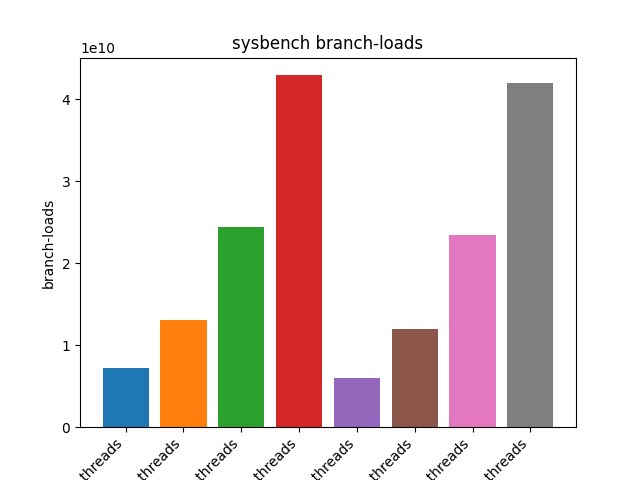
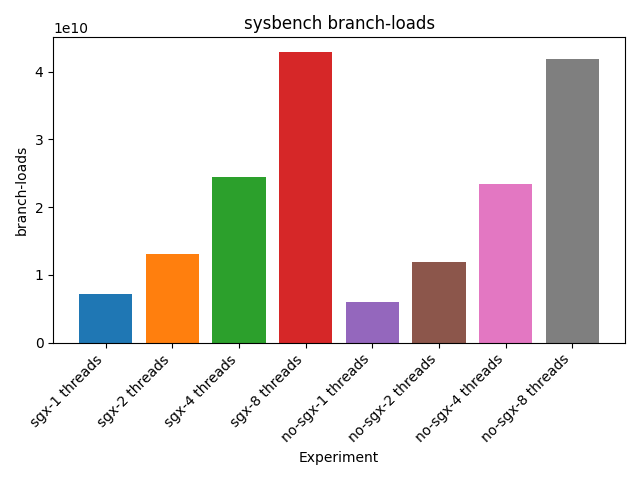
Updated docs with tight_layout plots

diff --git a/dev/analysis.py b/dev/analysis.py
@@ -18,7 +18,7 @@ def _(__file__):
     print(project_root)
     os.chdir(project_root)
 
-    config = "demo-result/config.toml"
+    config = "data/demo-result2/config.toml"
 
     # load experiment params
     config = toml.load(config)
@@ -103,7 +103,7 @@ def _(data, pd, plt):
         fname = f"{app}-{enclave}-{threads}-{storage}" if sgx_suffix != "" else f"{app}-{threads}-no-sgx"
         plt.savefig(f"figures/{fname}.png")
         plt.show()
-    
+
     deep_trace_analysis("dd", 1, "128M", "encrypted")
     deep_trace_analysis("dd", 1, "128M", "untrusted")
     deep_trace_analysis("dd", 1)
@@ -135,12 +135,13 @@ def _(data, pd, plt):
         plt.title(f"{app} {param}")
         plt.xlabel("Experiment")
         plt.ylabel(param)
-        plt.xticks(ticks, labels, rotation=45,ha='right')
+        plt.xticks(ticks, labels, rotation=45, ha='right')
         fname = f"{param}-sgx-{app}-{size}"
+        plt.tight_layout()
         plt.savefig(f"figures/{fname}.png")
         plt.legend()
         plt.show()
-    
+
     cmp_perf_param("sysbench", "cache-misses", data["sysbench"]["num_threads"], "1G")
     cmp_perf_param("sysbench", "cpu-cycles", data["sysbench"]["num_threads"], "1G")
     cmp_perf_param("sysbench", "cache-references", data["sysbench"]["num_threads"], "1G")
@@ -157,7 +158,7 @@ def _(np, pd, plt):
         experiments = ["encrypted", "untrusted"]
         seq_vals = []
         rnd_vals = []
-    
+
         for s in experiments:
             fname = f"aggregated/sgx-{app}-{threads}-{enclave}-{s}/io.csv"
             df = pd.read_csv(fname, index_col=0)
@@ -166,7 +167,7 @@ def _(np, pd, plt):
 
         indices = np.arange(len(experiments))
         bar_width = 0.35  # width of each bar
-    
+
         plt.bar(indices - bar_width/2, seq_vals, width=bar_width, label="Sequential Writes (%)")
         plt.bar(indices + bar_width/2, rnd_vals, width=bar_width, label="Random Writes (%)")
         # Set x-axis tick positions and labels
@@ -176,6 +177,7 @@ def _(np, pd, plt):
         plt.title("Disk Write Comparison")
         plt.legend()
         fname = f"disk_write-sgx-{app}-{enclave}"
+        plt.tight_layout()
         plt.savefig(f"figures/{fname}.png")
         plt.show()
 
@@ -201,9 +203,9 @@ def _(data, os, pd, plt):
             "uncore": {"color": "green",  "alpha": 0.5 },
             "dram": {"color": "green",  "alpha": 0.8 },
         }
-   
+
         title = f"{app}-{enclave} w/ {threads} thr {storage}" if sgx_suffix != "" else f"{app} w/out sgx"
-    
+
         plt.title(title)
         bins = 10000
 
@@ -219,21 +221,21 @@ def _(data, os, pd, plt):
         plt.ylabel("Energy (J)")
         plt.xlabel("Time (s)")
         plt.legend()
-
+        plt.tight_layout()
         plt.show()
 
     def plot_energy() -> None:
         for size in data["dd"]["enclave_size"]:
             energy_analysis("dd", 1, size, "encrypted")
             energy_analysis("dd", 1, size, "untrusted")   
-    
+
         energy_analysis("dd", 1)
-    
+
         for thread in data["sysbench"]["num_threads"]:
             energy_analysis("sysbench", thread, "1G", "untrusted")
             energy_analysis("sysbench", thread)
 
-    plot_energy()
+
     return energy_analysis, plot_energy
 
 

diff --git a/docs/web/source/inner-working.rst b/docs/web/source/inner-working.rst
@@ -197,6 +197,67 @@ are explained in https://gramine.readthedocs.io/en/stable/performance.html.
   # of async signals:  0
 
 
+Disk Access Pattern Calculation
+^^^^^^^^^^^^^^^^^^^^^^^^^^^^^^^
+
+The following C code demonstrates how disk access patterns are calculated by comparing
+the starting sector of the current I/O request with the ending sector of the previous
+request. This is used in the eBPF code.
+
+.. note::
+
+  Disk access pattern is taken from here https://github.com/eunomia-bpf/bpf-developer-tutorial/tree/main/src/17-biopattern
+
+
+.. code-block:: c
+
+    SEC("tracepoint/block/block_rq_complete")
+    int handle__block_rq_complete(struct trace_event_raw_block_rq_completion *ctx) {
+      struct disk_counter *counterp, zero = {};
+      sector_t sector;
+      u32 nr_sector;
+      u32 dev;
+      __u32 ev_type = (ctx->rwbs[0] == 'R') ? EVENT_READ_DISK : EVENT_WRITE_DISK;
+  
+      if (deep_trace && snd_trace_event(ev_type)) {
+          return 1;
+      }
+  
+      sector = BPF_CORE_READ(ctx, sector);
+      nr_sector = BPF_CORE_READ(ctx, nr_sector);
+      dev = BPF_CORE_READ(ctx, dev);
+  
+      counterp = bpf_map_lookup_or_try_init(&counters, &dev, &zero);
+      if (!counterp)
+          return 0;
+      if (counterp->last_sector) {
+          if (counterp->last_sector == sector)
+              __sync_fetch_and_add(&counterp->sequential, 1);
+          else
+              __sync_fetch_and_add(&counterp->random, 1);
+          __sync_fetch_and_add(&counterp->bytes, nr_sector * 512);
+      }
+      counterp->last_sector = sector + nr_sector;
+      return 0;
+    }
+
+1. **Extracting Request Data**:
+   - The starting sector (`sector`), the number of sectors (`nr_sector`), and the device identifier (`dev`) are read from the context using the `BPF_CORE_READ` macro.
+   
+2. **Maintaining Disk Counters**:
+   - The code uses a BPF map to retrieve or initialize a `disk_counter` structure for each device.
+   - This structure tracks the last processed sector (`last_sector`), as well as counters for sequential and random disk accesses, and the total number of bytes processed.
+   
+3. **Determining the Access Pattern**:
+   - If there is a previously recorded sector (`last_sector` is non-zero), the code compares it with the current `sector`.
+   - If they are equal, it increments the sequential access counter.
+   - Otherwise, it increments the random access counter.
+   - The total bytes processed are updated by multiplying the number of sectors by 512 (bytes per sector).
+
+4. **Updating the Last Processed Sector**:
+   - The `last_sector` field is updated to `sector + nr_sector` after each I/O request, which serves as t
+
+
 .. index:: Perf
 
 Performance counters

diff --git a/docs/web/source/analysis.rst b/docs/web/source/analysis.rst
@@ -237,3 +237,29 @@ This bar chart compares the percentage of sequential and random disk writes betw
   
   Disk write analysis for an enclave 64Mb size
 
+Perf analysis
+~~~~~~~~~~~~~
+The following plots compares results from the ``perf`` command. Since perf reads CPU 
+counters results are shown for the ``sysbench`` application.
+Cache misses are very high during SGX execution. This is highly due to the fact that 
+when an enclave starts the execution, TLBs and Caches are flushed.
+
+.. figure:: ./figures/cache-misses-sgx-sysbench-1G.png
+  :width: 400
+  :alt: Cache misses for sysbench application
+
+  Cache misses for sysbench application
+
+Other counters like branch-misses and cache-references are balanced between new applications
+
+.. figure:: ./figures/branch-misses-sgx-sysbench-1G.png
+  :width: 400
+  :alt: Branch misses for sysbench application
+
+  Branch misses for sysbench application
+
+.. figure:: ./figures/cache-references-sgx-sysbench-1G.png
+  :width: 400
+  :alt: Cache references for sysbench application
+
+  Cache references for sysbench application
